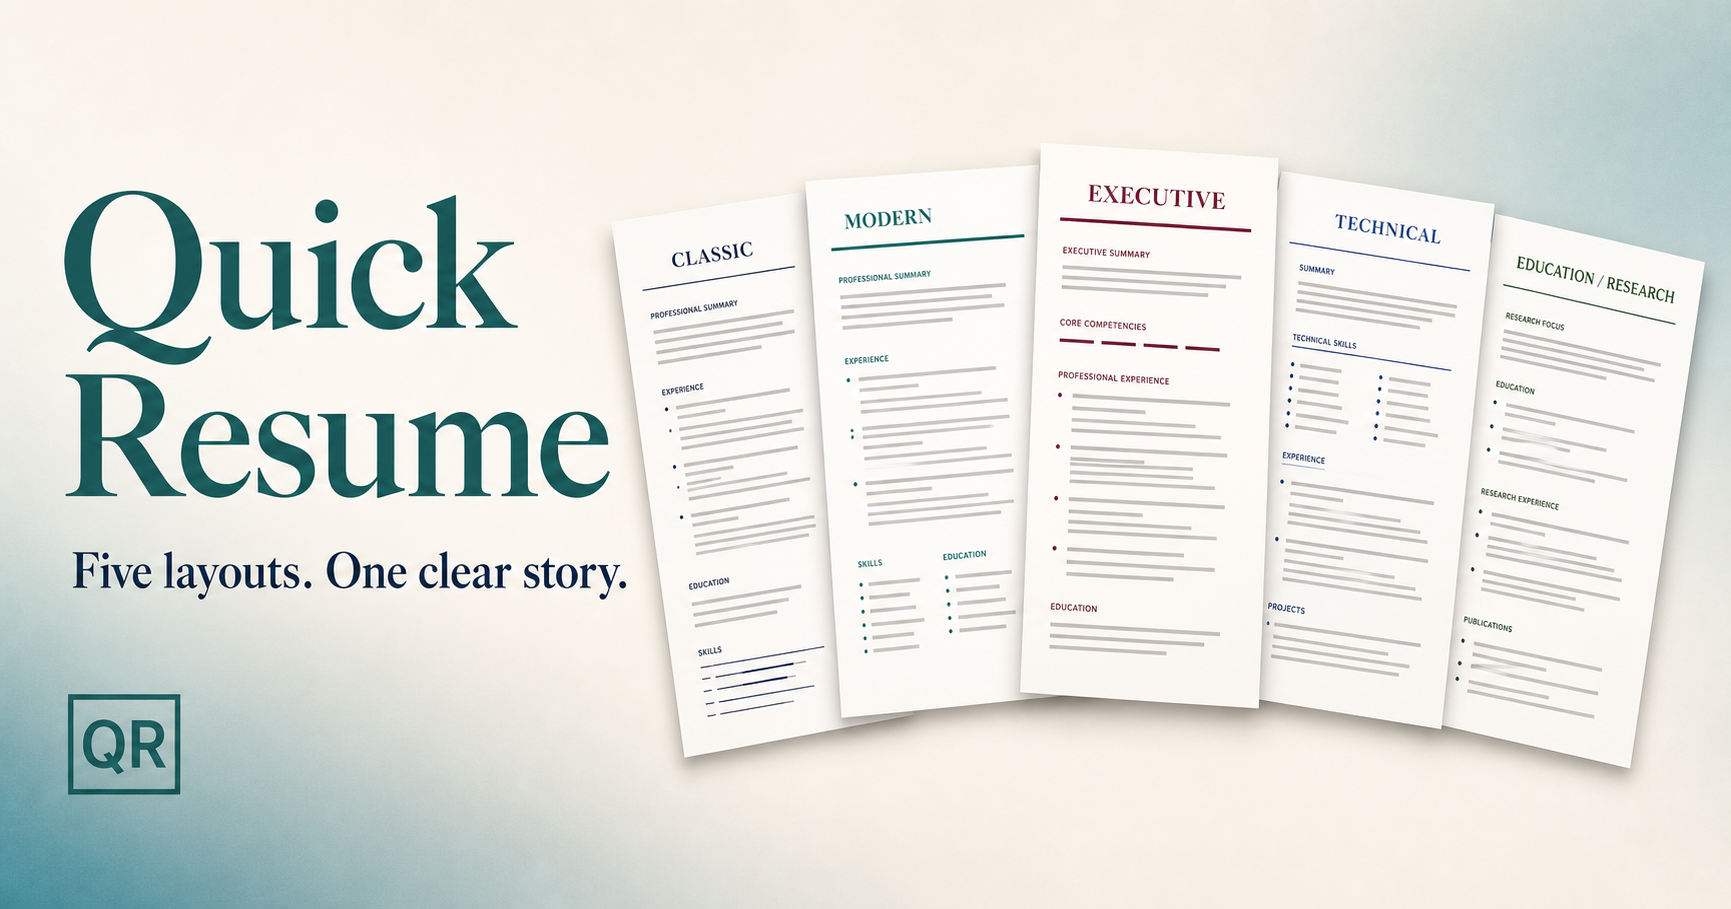
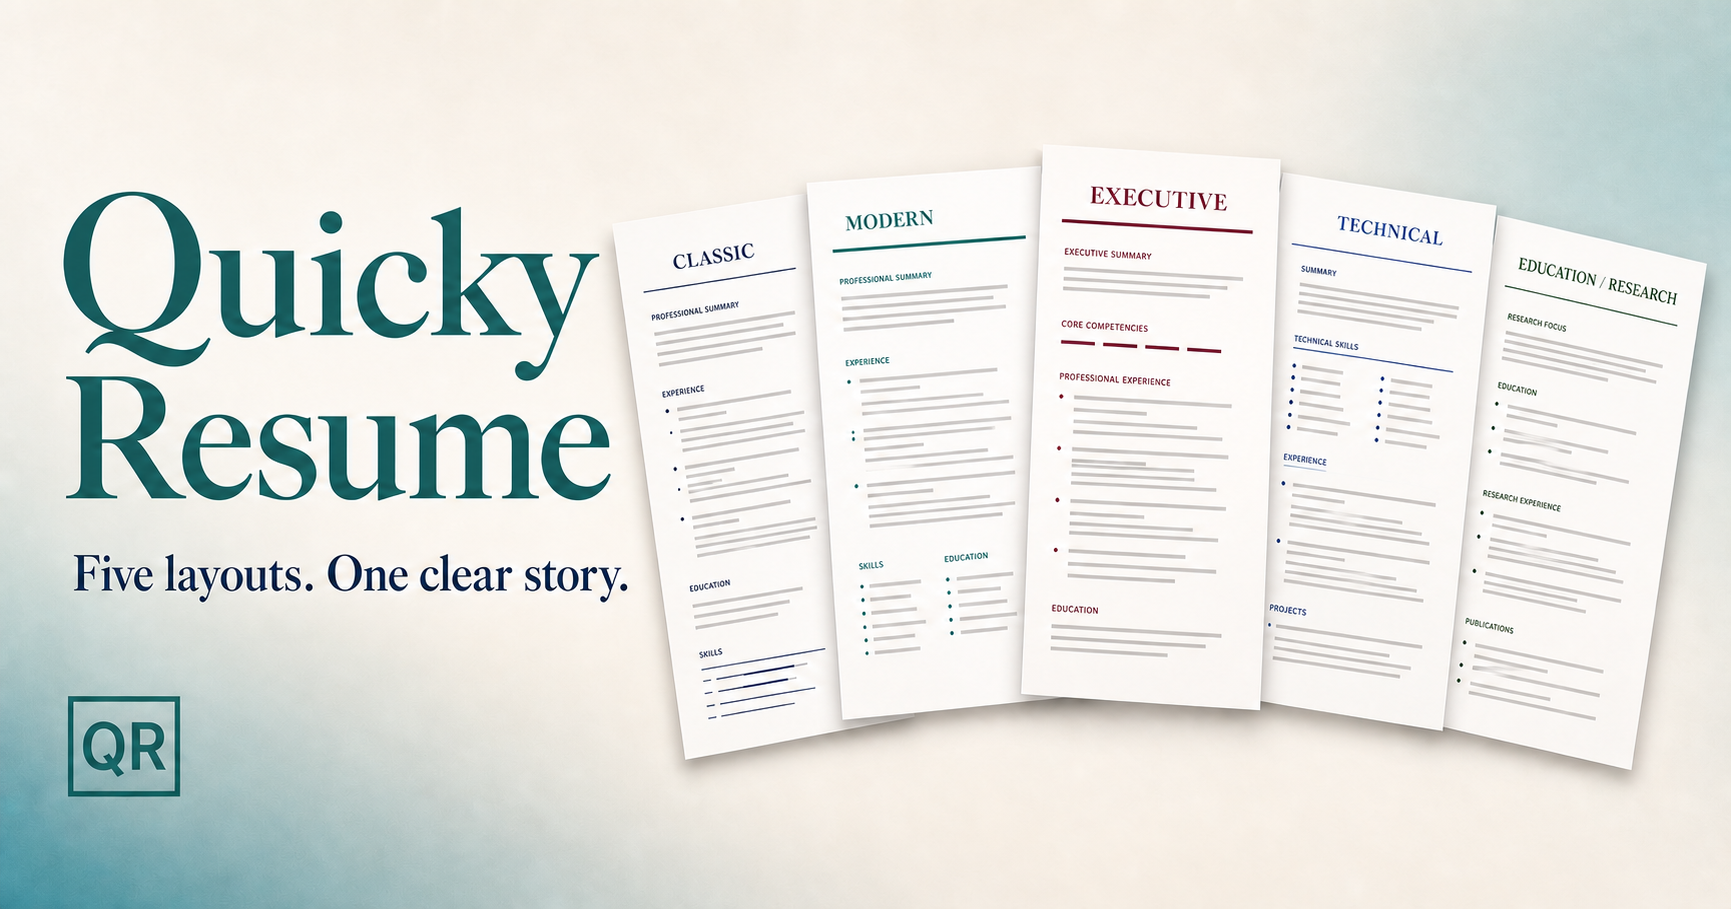
Rebrand as Quicky Resume
Update the product name, metadata, documentation, tests, package identity, and social card while preserving existing user data.

diff --git a/app/layout.tsx b/app/layout.tsx
@@ -16,7 +16,7 @@ const siteUrl = (process.env.NEXT_PUBLIC_SITE_URL ?? "https://tian-resume-studio
   /\/$/,
   "",
 );
-const title = "Quick Resume";
+const title = "Quicky Resume";
 const description =
   "Build a clear, job-ready resume with five research-backed layouts, smart one-page fitting, and PDF, PNG, or JPG export.";
 const socialImage = `${siteUrl}/og.png`;
@@ -29,7 +29,7 @@ export const metadata: Metadata = {
     title,
     description,
     type: "website",
-    images: [{ url: socialImage, width: 1731, height: 909, alt: "Quick Resume and its five professional layouts" }],
+    images: [{ url: socialImage, width: 1731, height: 909, alt: "Quicky Resume and its five professional layouts" }],
   },
   twitter: {
     card: "summary_large_image",

diff --git a/app/examples/tian-xing.ts b/app/examples/tian-xing.ts
@@ -1,7 +1,7 @@
 import type { ResumeData } from "../resume-model";
 
 /**
- * The example resume shown when Quick Resume is first opened.
+ * The example resume shown when Quicky Resume is first opened.
  *
  * Replace this object with another ResumeData object to ship a different
  * starter case. Once the app has opened, edits are saved locally in the

diff --git a/app/page.tsx b/app/page.tsx
@@ -547,7 +547,7 @@ export default function Home() {
           <div className="brand-mark" aria-hidden="true">QR</div>
           <div>
             <p className="eyebrow">Personal workspace</p>
-            <h1>Quick Resume</h1>
+            <h1>Quicky Resume</h1>
           </div>
         </div>
         <div className="save-state">

diff --git a/worker/index.ts b/worker/index.ts
@@ -1,4 +1,4 @@
-/** Cloudflare Worker entry point for Quick Resume. */
+/** Cloudflare Worker entry point for Quicky Resume. */
 import { handleImageOptimization, DEFAULT_DEVICE_SIZES, DEFAULT_IMAGE_SIZES } from "vinext/server/image-optimization";
 import handler from "vinext/server/app-router-entry";
 

diff --git a/README.md b/README.md
@@ -1,6 +1,6 @@
-# Quick Resume
+# Quicky Resume
 
-Quick Resume is a privacy-friendly resume editor that runs entirely in the
+Quicky Resume is a privacy-friendly resume editor that runs entirely in the
 browser. Edit the form or click directly into the live resume, reorganize
 sections, intelligently fit the document to one page, and export it as an
 ATS-friendly PDF, PNG, or JPG.
@@ -26,7 +26,7 @@ logic.
 
 ## Run locally
 
-Quick Resume requires Node.js `22.13.0` or newer.
+Quicky Resume requires Node.js `22.13.0` or newer.
 
 ```bash
 npm install
@@ -82,7 +82,7 @@ one-page height. It never removes content.
 
 ## Resume layouts
 
-Quick Resume includes five single-column layouts designed around common hiring
+Quicky Resume includes five single-column layouts designed around common hiring
 contexts:
 
 - **ATS Classic** for conservative, general-purpose applications
